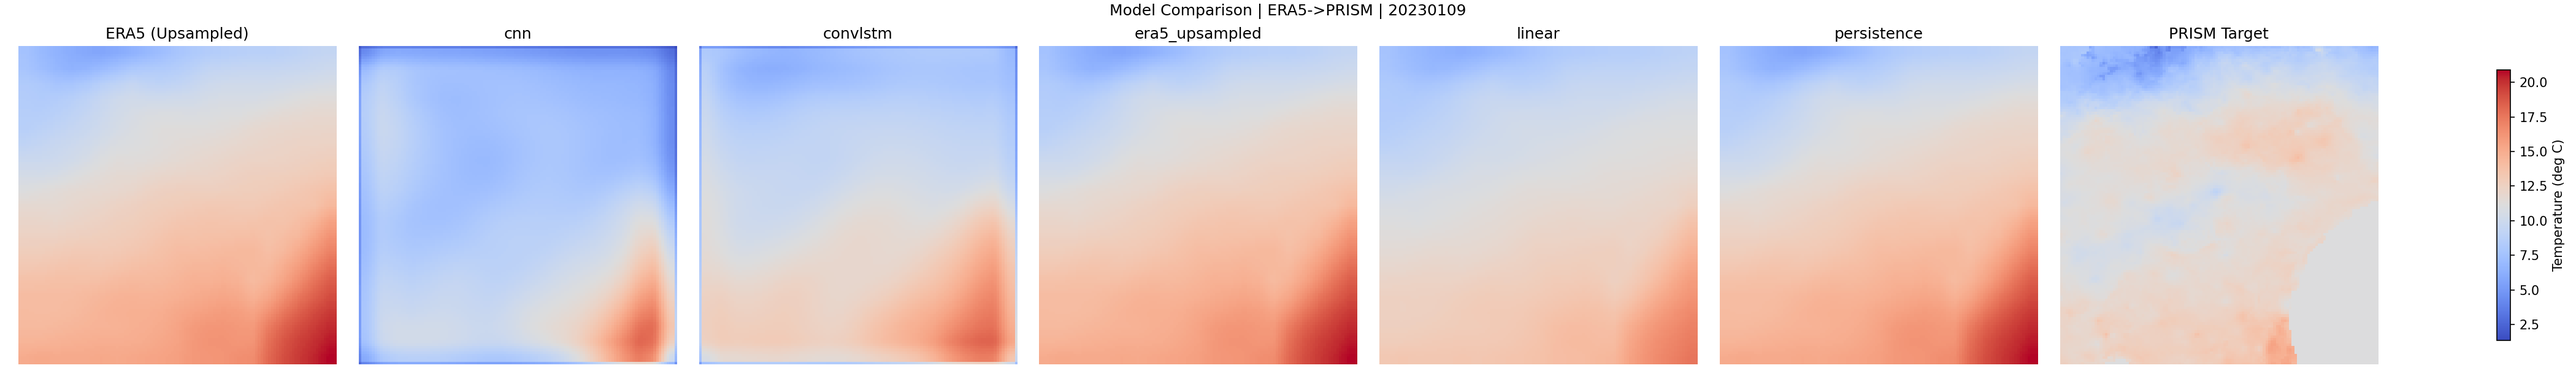
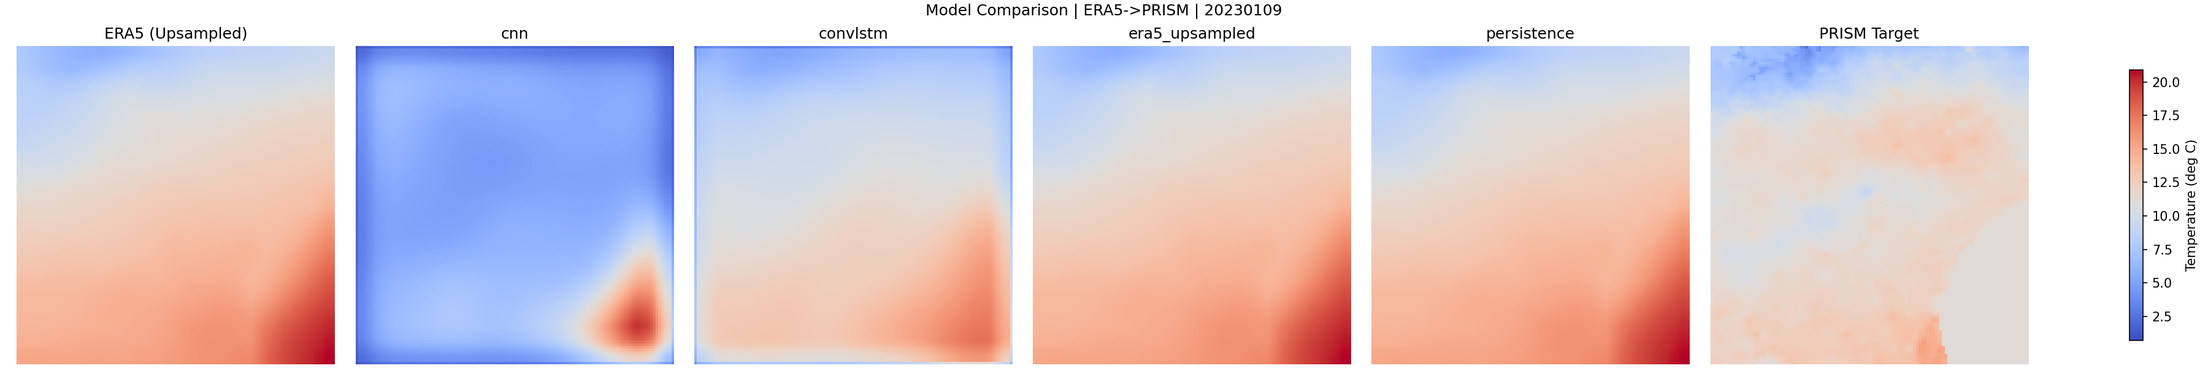
Run t2m experiment sweep and validate result summaries
Record a small sweep summary artifact, refresh curated result images from the best run, and update the notebook/README to reflect the reproducible t2m history-length sweep outcomes.

Made-with: Cursor

diff --git a/README.md b/README.md
@@ -90,11 +90,11 @@ Example metrics (from a local run; see `results/evaluation/baselines_summary.csv
 | persistence | 2.356 | 1.809 |
 | era5_upsampled | 2.356 | 1.809 |
 | linear | 2.321 | 2.004 |
-| cnn | 3.894 | 3.389 |
-| convlstm | 2.043 | 1.554 |
+| cnn | 4.505 | 3.856 |
+| convlstm (history=3) | 2.004 | 1.391 |
 
 Observations (concise interpretation):
-- ConvLSTM reduces RMSE compared to persistence and yields more temporally consistent predictions.
+- ConvLSTM reduces RMSE compared to persistence once sufficient temporal context is available (history=3 in the t2m sweep).
 - CNN can underperform on this task because it treats the input history as stacked channels and cannot model dynamics explicitly.
 - ConvLSTM helps by updating a hidden state across the input sequence, capturing short-term temporal dependencies.
 - Errors tend to concentrate in regions with strong spatial gradients where small misalignment produces larger absolute differences.
